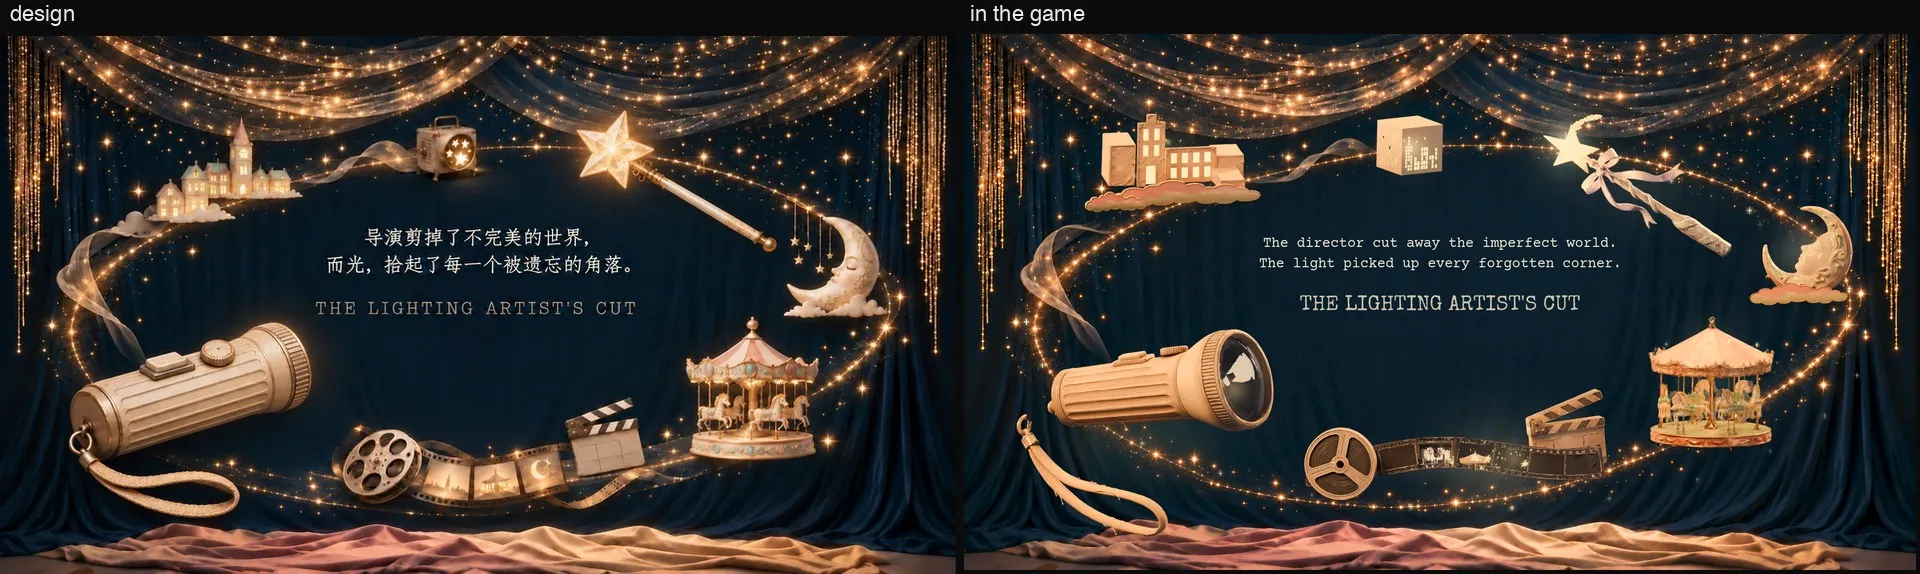
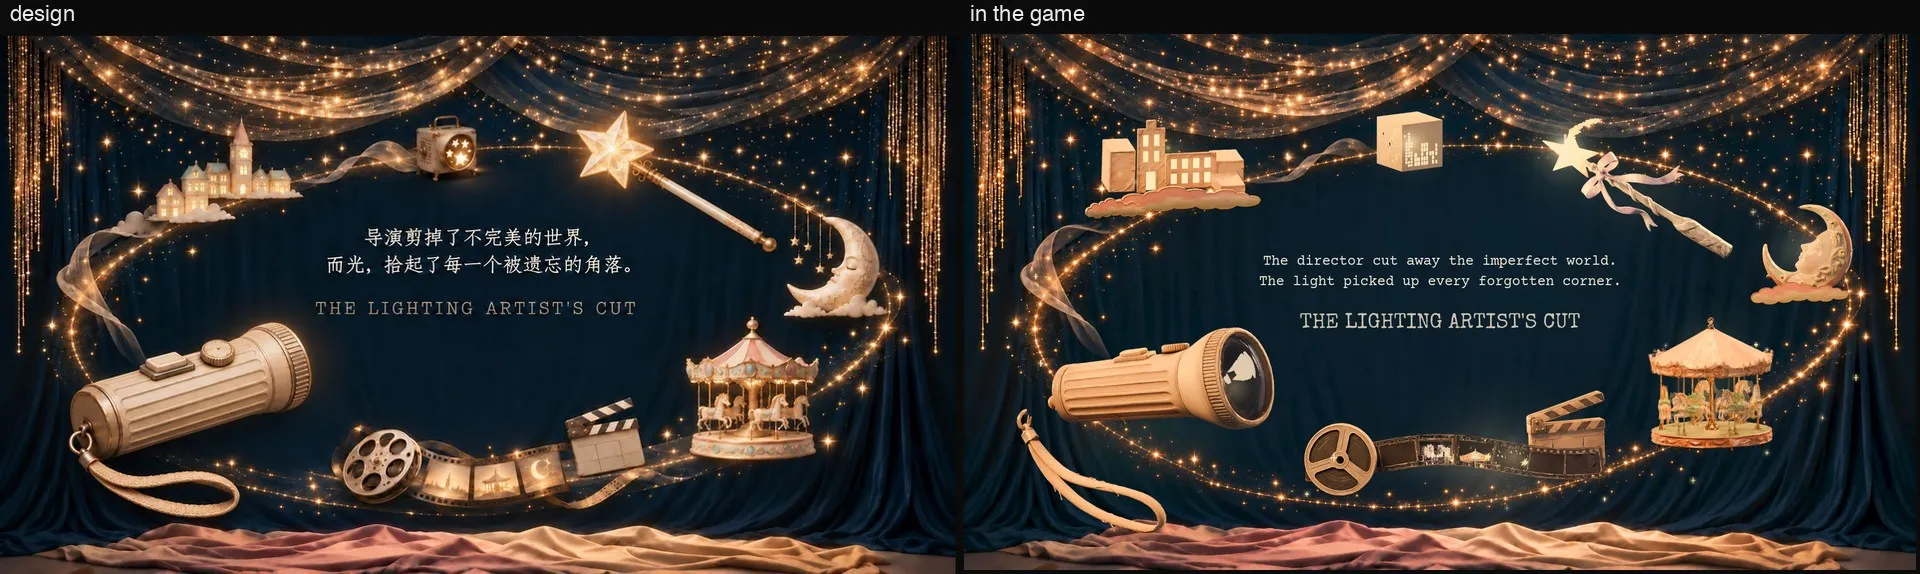
Sync final The Unlit Cut devlog and refine image viewing

diff --git a/src/components/react/DevlogLightbox.tsx b/src/components/react/DevlogLightbox.tsx
@@ -1,30 +1,28 @@
 import { useCallback, useEffect, useRef, useState } from "react";
-import { PhotoLightbox, type LightboxLabels, type LightboxPhoto } from "./PhotoLightbox";
+import {
+  PhotoLightbox,
+  photoLightboxLabels,
+  type LightboxLabels,
+  type LightboxPhoto,
+} from "./PhotoLightbox";
 
 const labels: Record<"en" | "zh-Hans", LightboxLabels> = {
-  en: {
-    title: "Development log images",
-    open: "Enlarge image",
-    close: "Close image viewer",
-    previous: "Previous image",
-    next: "Next image",
-    loading: "Loading image…",
-    unavailable: "Full-size image unavailable. Showing preview.",
-  },
+  en: photoLightboxLabels,
   "zh-Hans": {
     title: "开发日志图片",
-    open: "放大图片",
-    close: "关闭图片查看器",
-    previous: "上一张图片",
-    next: "下一张图片",
-    loading: "正在加载图片…",
-    unavailable: "无法加载原图，暂时显示预览图。",
+    open: "看图",
+    close: "关闭",
+    previous: "上一张",
+    next: "下一张",
+    loading: "加载中…",
+    unavailable: "大图加载失败，显示预览图",
   },
 };
 
 /** Enhance the static Markdown figures only after hydration; inline images need no JS. */
-export default function DevlogLightbox({ lang }: { lang: "en" | "zh-Hans" }) {
+export default function DevlogLightbox() {
   const marker = useRef<HTMLSpanElement>(null);
+  const [lang, setLang] = useState<"en" | "zh-Hans">("en");
   const [photos, setPhotos] = useState<LightboxPhoto[]>([]);
   const [index, setIndex] = useState<number | null>(null);
   const close = useCallback(() => setIndex(null), []);
@@ -32,12 +30,14 @@ export default function DevlogLightbox({ lang }: { lang: "en" | "zh-Hans" }) {
   useEffect(() => {
     const root = marker.current?.closest(".devlog");
     if (!root) return;
+    setLang(document.documentElement.lang.toLowerCase().startsWith("zh") ? "zh-Hans" : "en");
     const images = Array.from(root.querySelectorAll<HTMLImageElement>("figure img")).filter(
       (image) => !image.closest("button, a")
     );
     setPhotos(
       images.map((image) => ({
         src: image.currentSrc || image.src,
+        fullSrc: image.currentSrc || image.src,
         alt: image.alt,
         caption: image.closest("figure")?.querySelector("figcaption")?.textContent?.trim(),
       }))
@@ -49,7 +49,12 @@ export default function DevlogLightbox({ lang }: { lang: "en" | "zh-Hans" }) {
       button.setAttribute("aria-haspopup", "dialog");
       button.className =
         "block w-full cursor-zoom-in rounded-lg text-left focus-visible:outline focus-visible:outline-2 focus-visible:outline-offset-4 focus-visible:outline-amber-200";
-      const open = () => setIndex(imageIndex);
+      const open = () => {
+        // Pointer activation does not focus buttons in every browser. Give the
+        // shared dialog a reliable trigger to restore focus to when it closes.
+        button.focus({ preventScroll: true });
+        setIndex(imageIndex);
+      };
       button.addEventListener("click", open);
       image.replaceWith(button);
       button.append(image);

diff --git a/tests/devlog-lightbox.test.tsx b/tests/devlog-lightbox.test.tsx
@@ -6,6 +6,7 @@ import DevlogLightbox from "../src/components/react/DevlogLightbox";
 let article: HTMLDivElement;
 
 beforeEach(() => {
+  document.documentElement.lang = "en";
   article = document.createElement("div");
   article.className = "devlog";
   article.innerHTML = `
@@ -20,12 +21,14 @@ afterEach(() => {
   article.remove();
   document.documentElement.style.overflow = "";
   document.body.style.overflow = "";
+  document.documentElement.lang = "en";
 });
 
-function mount(lang: "en" | "zh-Hans" = "en") {
+function mount(lang = "en") {
+  document.documentElement.lang = lang;
   return render(
     <StrictMode>
-      <DevlogLightbox lang={lang} />
+      <DevlogLightbox />
     </StrictMode>,
     { container: article.querySelector<HTMLDivElement>("[data-viewer]")! }
   );
@@ -36,7 +39,7 @@ describe("Devlog image viewer", () => {
     mount();
     expect(article.querySelectorAll("figure button")).toHaveLength(2);
     fireEvent.click(screen.getByRole("button", { name: "Second picture" }));
-    const dialog = screen.getByRole("dialog", { name: "Development log images" });
+    const dialog = screen.getByRole("dialog", { name: "Project photographs" });
     expect(within(dialog).getByRole("img")).toHaveAttribute("alt", "Second picture");
     expect(within(dialog).getByText("Second caption")).toBeInTheDocument();
     expect(within(dialog).getByText("02 / 02")).toBeInTheDocument();
@@ -58,9 +61,8 @@ describe("Devlog image viewer", () => {
     document.body.style.overflow = "auto";
     mount();
     const trigger = screen.getByRole("button", { name: "First picture" });
-    trigger.focus();
     fireEvent.click(trigger);
-    const dialog = screen.getByRole("dialog", { name: "Development log images" });
+    const dialog = screen.getByRole("dialog", { name: "Project photographs" });
     expect(document.body.style.overflow).toBe("hidden");
     fireEvent.click(dialog.querySelector<HTMLButtonElement>("[data-lightbox-close]")!);
     expect(screen.queryByRole("dialog")).not.toBeInTheDocument();
@@ -81,15 +83,12 @@ describe("Devlog image viewer", () => {
   });
 
   it("uses Chinese viewer controls on the Chinese article", () => {
-    mount("zh-Hans");
+    mount("zh-CN");
     fireEvent.click(screen.getByRole("button", { name: "First picture" }));
     const dialog = screen.getByRole("dialog", { name: "开发日志图片" });
-    fireEvent.click(within(dialog).getByRole("button", { name: "下一张图片" }));
+    fireEvent.click(within(dialog).getByRole("button", { name: "下一张" }));
     expect(within(dialog).getByText("02 / 02")).toBeInTheDocument();
     expect(within(dialog).getByText("Second caption")).toBeInTheDocument();
-    expect(dialog.querySelector("[data-lightbox-close]")).toHaveAttribute(
-      "aria-label",
-      "关闭图片查看器"
-    );
+    expect(dialog.querySelector("[data-lightbox-close]")).toHaveAttribute("aria-label", "关闭");
   });
 });

diff --git a/tests/the-unlit-cut-devlog.test.ts b/tests/the-unlit-cut-devlog.test.ts
@@ -82,7 +82,7 @@ describe("The Unlit Cut devlog pages", () => {
   it("mounts one idle image viewer in the shared bilingual layout", () => {
     const layout = readFileSync(path.join(root, "src/components/DevlogLayout.astro"), "utf8");
     expect(layout.match(/<DevlogLightbox\b/g)).toHaveLength(1);
-    expect(layout).toMatch(/<DevlogLightbox\s+lang=\{lang\}\s+client:idle/);
+    expect(layout).toMatch(/<DevlogLightbox\s+client:idle/);
   });
 
   it("does not link the English page to the Chinese one", () => {

diff --git a/src/content/devlog/the-unlit-cut/en.md b/src/content/devlog/the-unlit-cut/en.md
@@ -64,7 +64,7 @@ We built two versions of that side room on Day 3. In the afternoon we made *"Ext
 
 After five auditions in ElevenLabs (`eleven_v4`), we gave Julian Vance a *"British Theatrical"* voice with performance tags for pauses, breaths, sighs, raised voice, and whispers, paired with two music beds (`eleven_music_v2_5`) that crossfade with colour temperature. During playtesting we cut *"Scene Four."* from the fourth line, and re-recorded the first line to say *"the editing table"* so no brand names appeared.
 
-On the last afternoon we tuned the course from playtests (subject to the final build). The fifth opening frame now speaks to the player in the second person, and the director's subtitles start with DIRECTOR:. The green EXIT sign blinks twice with a tube buzz when the director says *"take the green exit"*, and an obedient exit ends under a 1930s gramophone foxtrot. One scroll notch warms the lamp twice as much as before, so about seven notches open the prologue gauze. Quick camera turns no longer show the cut end of the left arm. Hints follow the area you are in before the main line, and nudge you to light the carousel and to look up at the stars. After the lights go out, looking up at the stars draws a line of wonder from the director. The finale screening starts only when you stand in front of the great gauze, and we cut the line *"Scene Twelve."* from the script.
+On the last afternoon we tuned the course from playtests (subject to the final build). The fifth opening frame now speaks to the player in the second person, and the director's subtitles start with DIRECTOR:. The green EXIT sign blinks twice with a tube buzz when the director says *"take the green exit"*, and an obedient exit ends under a 1930s gramophone foxtrot. One scroll notch warms the lamp twice as much as before, so about seven notches open the prologue gauze. Quick camera turns no longer show the cut end of the left arm. Hints follow the area you are in before the main line, and nudge you to light the carousel and to look up at the stars. After the lights go out, looking up at the stars draws a line of wonder from the director. The finale screening starts only when you stand in front of the great gauze, and we cut the line *"Scene Twelve."* from the script. In the last half hour we fixed two places where, in macOS full screen, the mouse was not handed back to the game: returning to the title after the obedient ending, and skipping the opening with Esc.
 
 ## Art
 
@@ -176,7 +176,7 @@ Claude Code and Claude Opus subagents ran the role sessions, drove Unreal Engine
 
 ## What's next
 
-Before submission, we still need to launch and play the final Windows candidate by hand, judge the in-game audio mix and mouse-look feel, review the darker opening frames, and record the gameplay trailer from `TRAILER_SHOTLIST.md`. On macOS, our signing scripts (`7be48a1`) and `docs/submission/README_Mac.txt` wait on a paid Apple Developer certificate for notarisation. For post-jam work, we have queued an upper-body skeleton for the first-person hands, the flashlight-only hand form in the prologue, the fuller flickering EXIT sign sequence, and the unmerged caustic reflector study (`origin/codex/reflector-light-2026-11-14`).
+The build we submit is v1.0.4, for macOS and Windows. We checked the macOS build by hand with a real mouse in the last half hour; the Windows build passed its build and tests. The gameplay video was cut from one recorded play session. The macOS build is not notarised: our signing scripts (`7be48a1`) wait on a paid Apple Developer certificate, and `docs/submission/README_Mac.txt` explains how to open the game the first time. For post-jam work, we have queued an upper-body skeleton for the first-person hands, the flashlight-only hand form in the prologue, the fuller flickering EXIT sign sequence, and the unmerged caustic reflector study (`origin/codex/reflector-light-2026-11-14`).
 
 ## Appendix: the four days at a glance
 

diff --git a/docs/the-unlit-cut-devlog.md b/docs/the-unlit-cut-devlog.md
@@ -28,8 +28,8 @@ identical to its source before publishing. Both languages contain the full text.
 The `#` heading becomes the page title, and each `##` heading becomes an entry
 in the table of contents.
 
-The current import is source commit `d9cef8a8fab3a206136de328a498be081db6f780`
-(third illustrated version, authored by Yilun Lab). Both languages contain
+The current import is source commit `c2ab47e1a3fcc41872b399751a08fafd631ec9af`
+(final illustrated text for the submitted v1.0.4 build). Both languages contain
 32 figures and no fenced code blocks. The image directory retains all 33 WebPs,
 including the city-sweep comparison that is no longer referenced by the text.
 
@@ -64,4 +64,7 @@ figures with native image buttons and reuses `PhotoLightbox.tsx` for the enlarge
 uncropped images, captions, arrow/swipe navigation and modal focus/scroll cleanup.
 The images and captions remain visible with JavaScript disabled. Unmounting the
 island restores the original figure markup. Viewer controls follow the article
-language; the Chinese-to-English link remains asymmetric.
+language from `document.documentElement.lang`; English uses the shared viewer labels.
+The preview and full-size sources both use each inline image's current source.
+Pointer activation focuses the image button so closing returns to that image in
+browsers that do not focus buttons on click. The Chinese-to-English link remains asymmetric.
